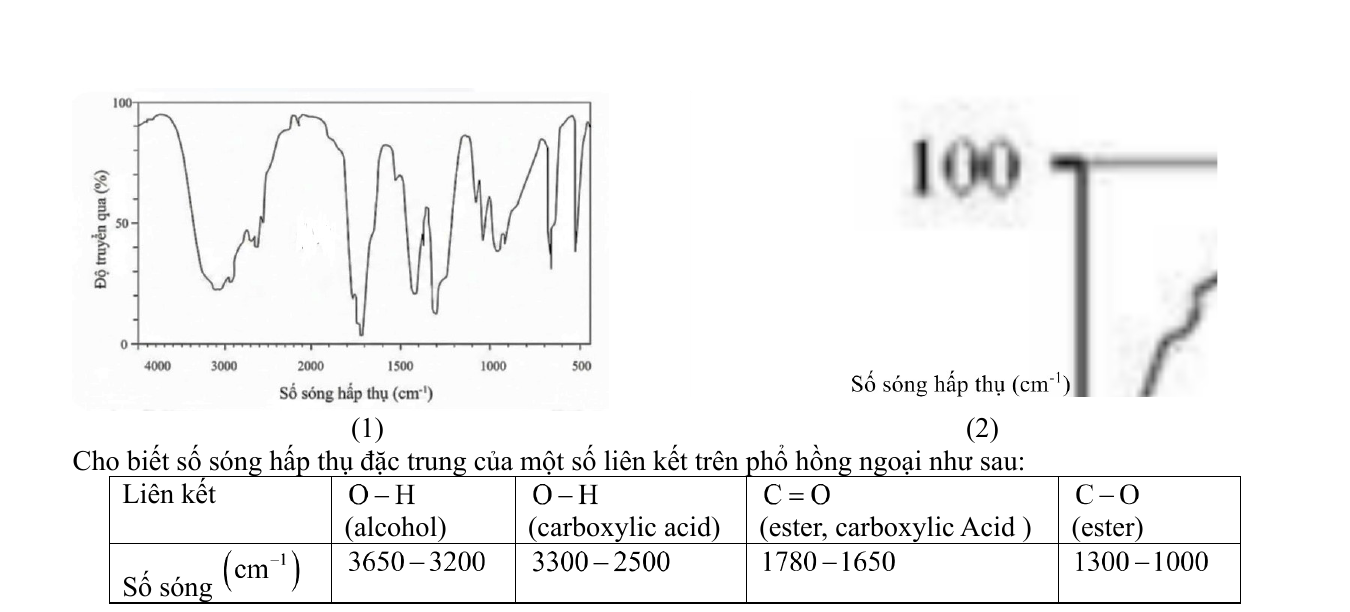
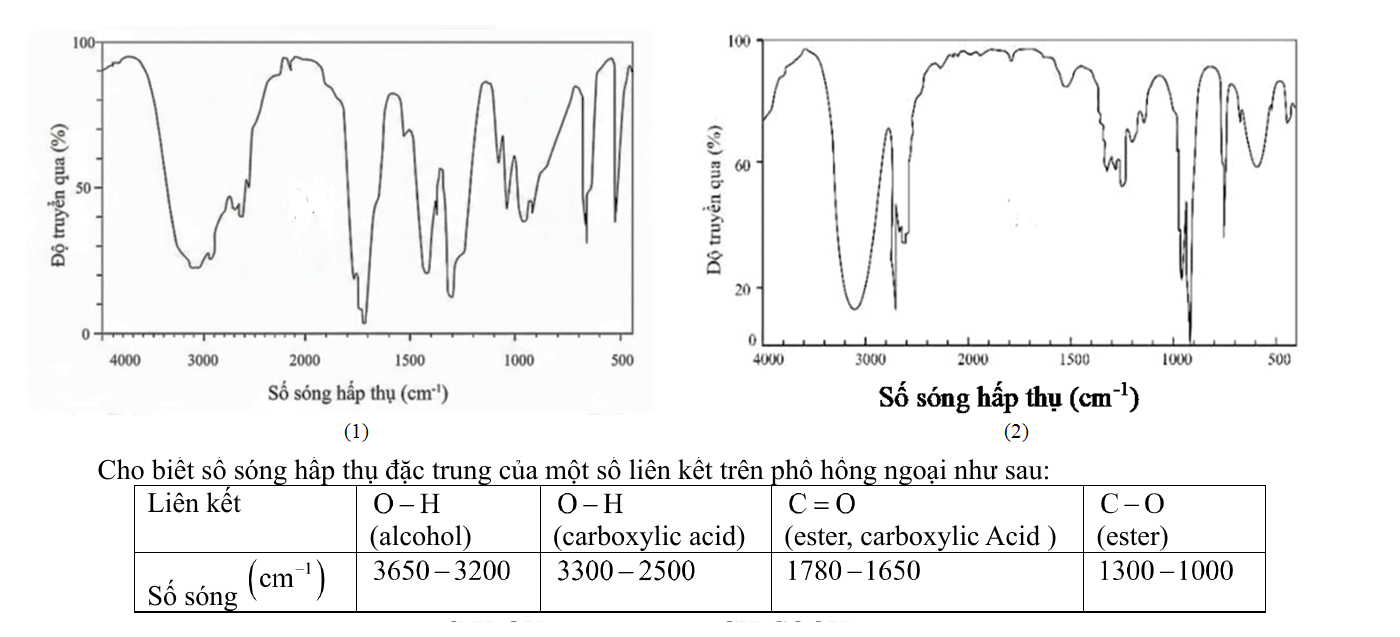
Fix câu 20 Hưng Yên: rebuild q20.png with both IR spectra from Word source
- Hình 1: extracted from image56.png (717x431) in original .docx
- Hình 2: extracted from image57.emf (EMF vector) in original .docx — was missing from PDF crop
- Both spectra rendered clearly side-by-side with table
- Final composite: 1400x637, version bumped to 20260519b

diff --git a/features/giup-cy/exam-assets.ts b/features/giup-cy/exam-assets.ts
@@ -20,7 +20,7 @@ type Week2Asset = {
 };
 
 const ASSET_VERSION = "student-clean-20260516";
-const CROP_ASSET_VERSION = "question-crops-20260519a";
+const CROP_ASSET_VERSION = "question-crops-20260519b";
 const week2Assets = week2AssetsData as Record<string, Week2Asset>;
 
 function buildPages(basePath: string, count: number, width: number, height: number, padded = true) {
@@ -95,7 +95,7 @@ export function getQuestionSourceAsset(exam: Pick<GiupCyExamRow, "slug" | "sourc
 
   if (source.includes("hung-yen")) {
     const cropSizes: Record<number, Pick<ExamPageAsset, "url" | "width" | "height">> = {
-      20: { url: `/exam-assets/hung-yen-hki/crops/q20.png?v=${CROP_ASSET_VERSION}`, width: 1350, height: 612 },
+      20: { url: `/exam-assets/hung-yen-hki/crops/q20.png?v=${CROP_ASSET_VERSION}`, width: 1400, height: 637 },
       21: { url: `/exam-assets/hung-yen-hki/crops/q21.png?v=${CROP_ASSET_VERSION}`, width: 1210, height: 150 },
       23: { url: `/exam-assets/hung-yen-hki/crops/q23.png?v=${CROP_ASSET_VERSION}`, width: 751, height: 413 },
       24: { url: `/exam-assets/hung-yen-hki/crops/q24.png?v=${CROP_ASSET_VERSION}`, width: 1200, height: 84 },